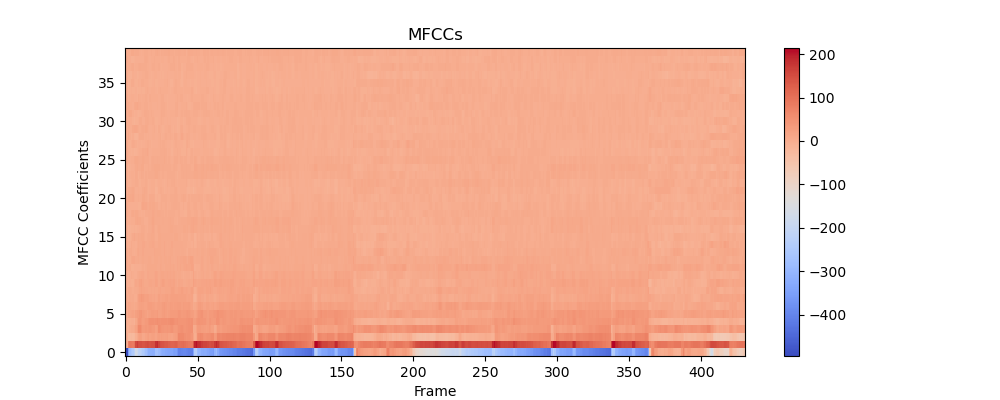
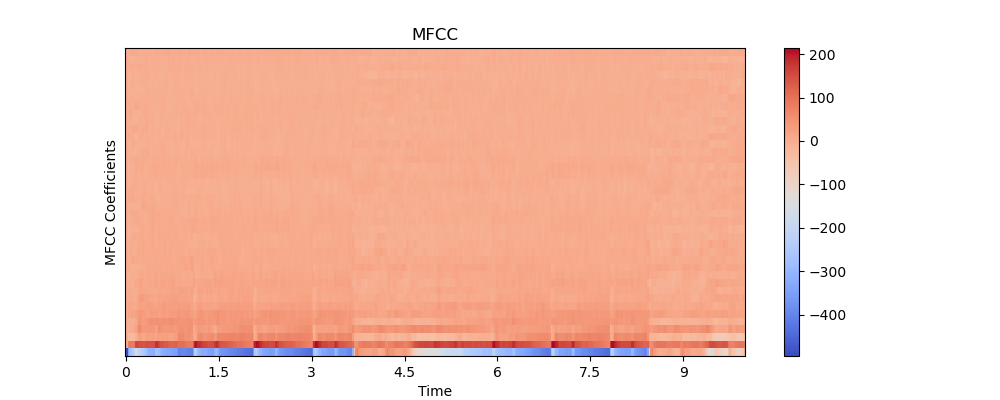
MFCC Graph Modifications

diff --git a/Home.py b/Home.py
@@ -117,12 +117,12 @@ def create_mfcc(wav_file_0, wav_file_1, wav_file_2):
     #First snippet
     y, sr = librosa.load(wav_file_0, duration=10)
     mfcc0 = librosa.feature.mfcc(y=y, sr=sr, n_mfcc=40)
-    #fig = plt.Figure()
     fig, ax = plt.subplots(figsize=(10, 4))
-    plt.imshow(mfcc0, interpolation='nearest', origin='lower', aspect='auto', cmap=cm.coolwarm)
+    librosa.display.specshow(mfcc0,
+                        x_axis='time',
+                        sr=sr)
     plt.colorbar()
-    plt.title('MFCCs')
-    plt.xlabel('Frame')
+    plt.title('MFCC')
     plt.ylabel('MFCC Coefficients')
         
     FigureCanvasAgg(fig)
@@ -131,12 +131,12 @@ def create_mfcc(wav_file_0, wav_file_1, wav_file_2):
     #Second snippet
     y, sr = librosa.load(wav_file_1, duration=10)
     mfcc1 = librosa.feature.mfcc(y=y, sr=sr, n_mfcc=40)
-    #fig = plt.Figure()
     fig, ax = plt.subplots(figsize=(10, 4))
-    plt.imshow(mfcc1, interpolation='nearest', origin='lower', aspect='auto', cmap=cm.coolwarm)
+    librosa.display.specshow(mfcc1,
+                        x_axis='time',
+                        sr=sr)
     plt.colorbar()
-    plt.title('MFCCs')
-    plt.xlabel('Frame')
+    plt.title('MFCC')
     plt.ylabel('MFCC Coefficients')
         
     FigureCanvasAgg(fig)
@@ -147,10 +147,11 @@ def create_mfcc(wav_file_0, wav_file_1, wav_file_2):
     mfcc2 = librosa.feature.mfcc(y=y, sr=sr, n_mfcc=40)
     #fig = plt.Figure()
     fig, ax = plt.subplots(figsize=(10, 4))
-    plt.imshow(mfcc2, interpolation='nearest', origin='lower', aspect='auto', cmap=cm.coolwarm)
+    librosa.display.specshow(mfcc2,
+                        x_axis='time',
+                        sr=sr)
     plt.colorbar()
-    plt.title('MFCCs')
-    plt.xlabel('Frame')
+    plt.title('MFCC')
     plt.ylabel('MFCC Coefficients')
         
     FigureCanvasAgg(fig)

diff --git a/README.md b/README.md
@@ -1,9 +1,10 @@
 # MusicGenreClassification
 This program is able to detect the genre of an audio sample. The main intention is that it be used to detect the genres of songs generated by OpenAI's Jukebox and as such modifications have been made. This includes limitations such as that the program is only able to predict WAV files of 30 seconds in length.
 
-It was trained using the Medium_FMA dataset, but selected data was used. Furthermore, due to time and resource constraints and to have a balanced dataset, the first 100 songs were taken. Each 30 second song was split into 3. The final model was trained on 2100 song snippets.
+It was trained using the FMA_Medium dataset, but selected data was used. Furthermore, due to time and resource constraints and to have a balanced dataset, the first 100 songs were taken. Each 30 second song was split into 3. The final model was trained on 2100 song snippets.
 
 Below is a representation of the dataset used to train the model:
+<<<<<<< HEAD
 
 Genre      | Number of songs
 -----------| -------------
@@ -21,3 +22,21 @@ Total      | 2100
 
 MIR techniques such as MFCC were used to allow the model to differentiate songs between multiple genres.
 
+=======
+
+Genre      | Number of songs
+-----------| -------------
+Folk       | 300
+Pop        | 300
+Rock       | 300
+Country    | 300
+Classical  | 300
+Jazz       | 300
+Hiphop     | 300
+Total      | 2100
+
+
+
+
+MIR techniques such as MFCC were used to allow the model to differentiate songs between multiple genres.
+>>>>>>> main
